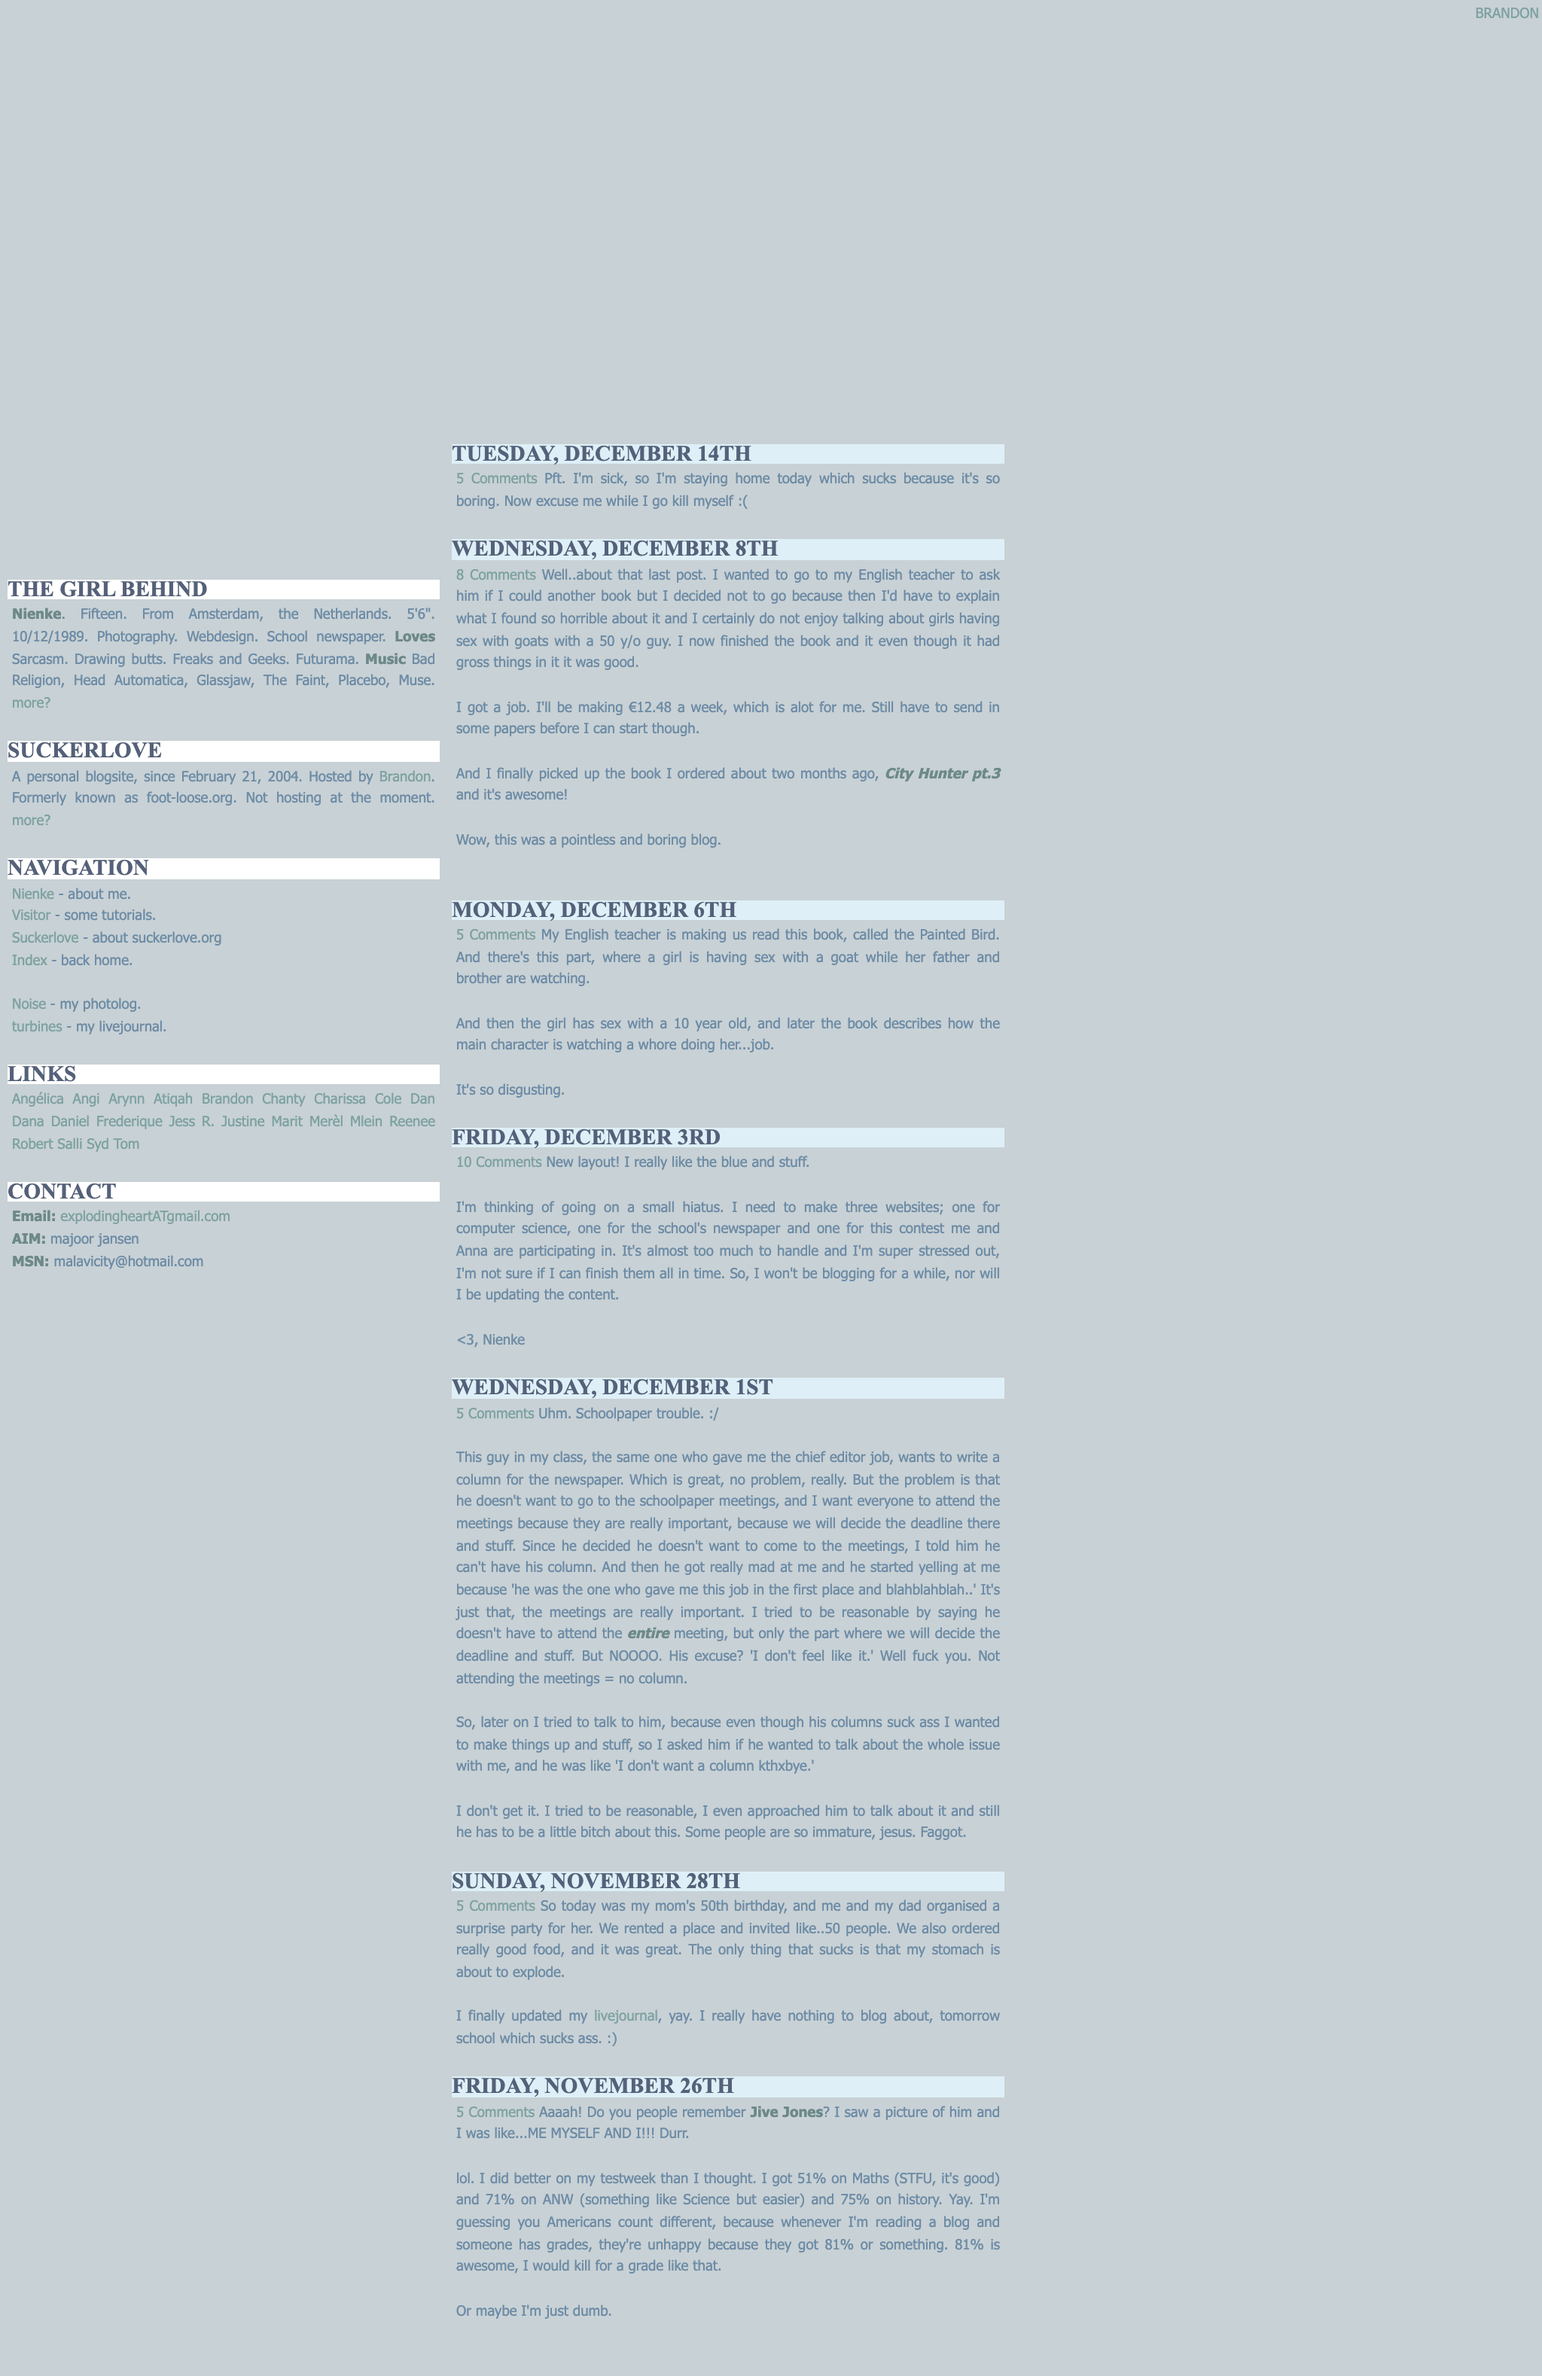
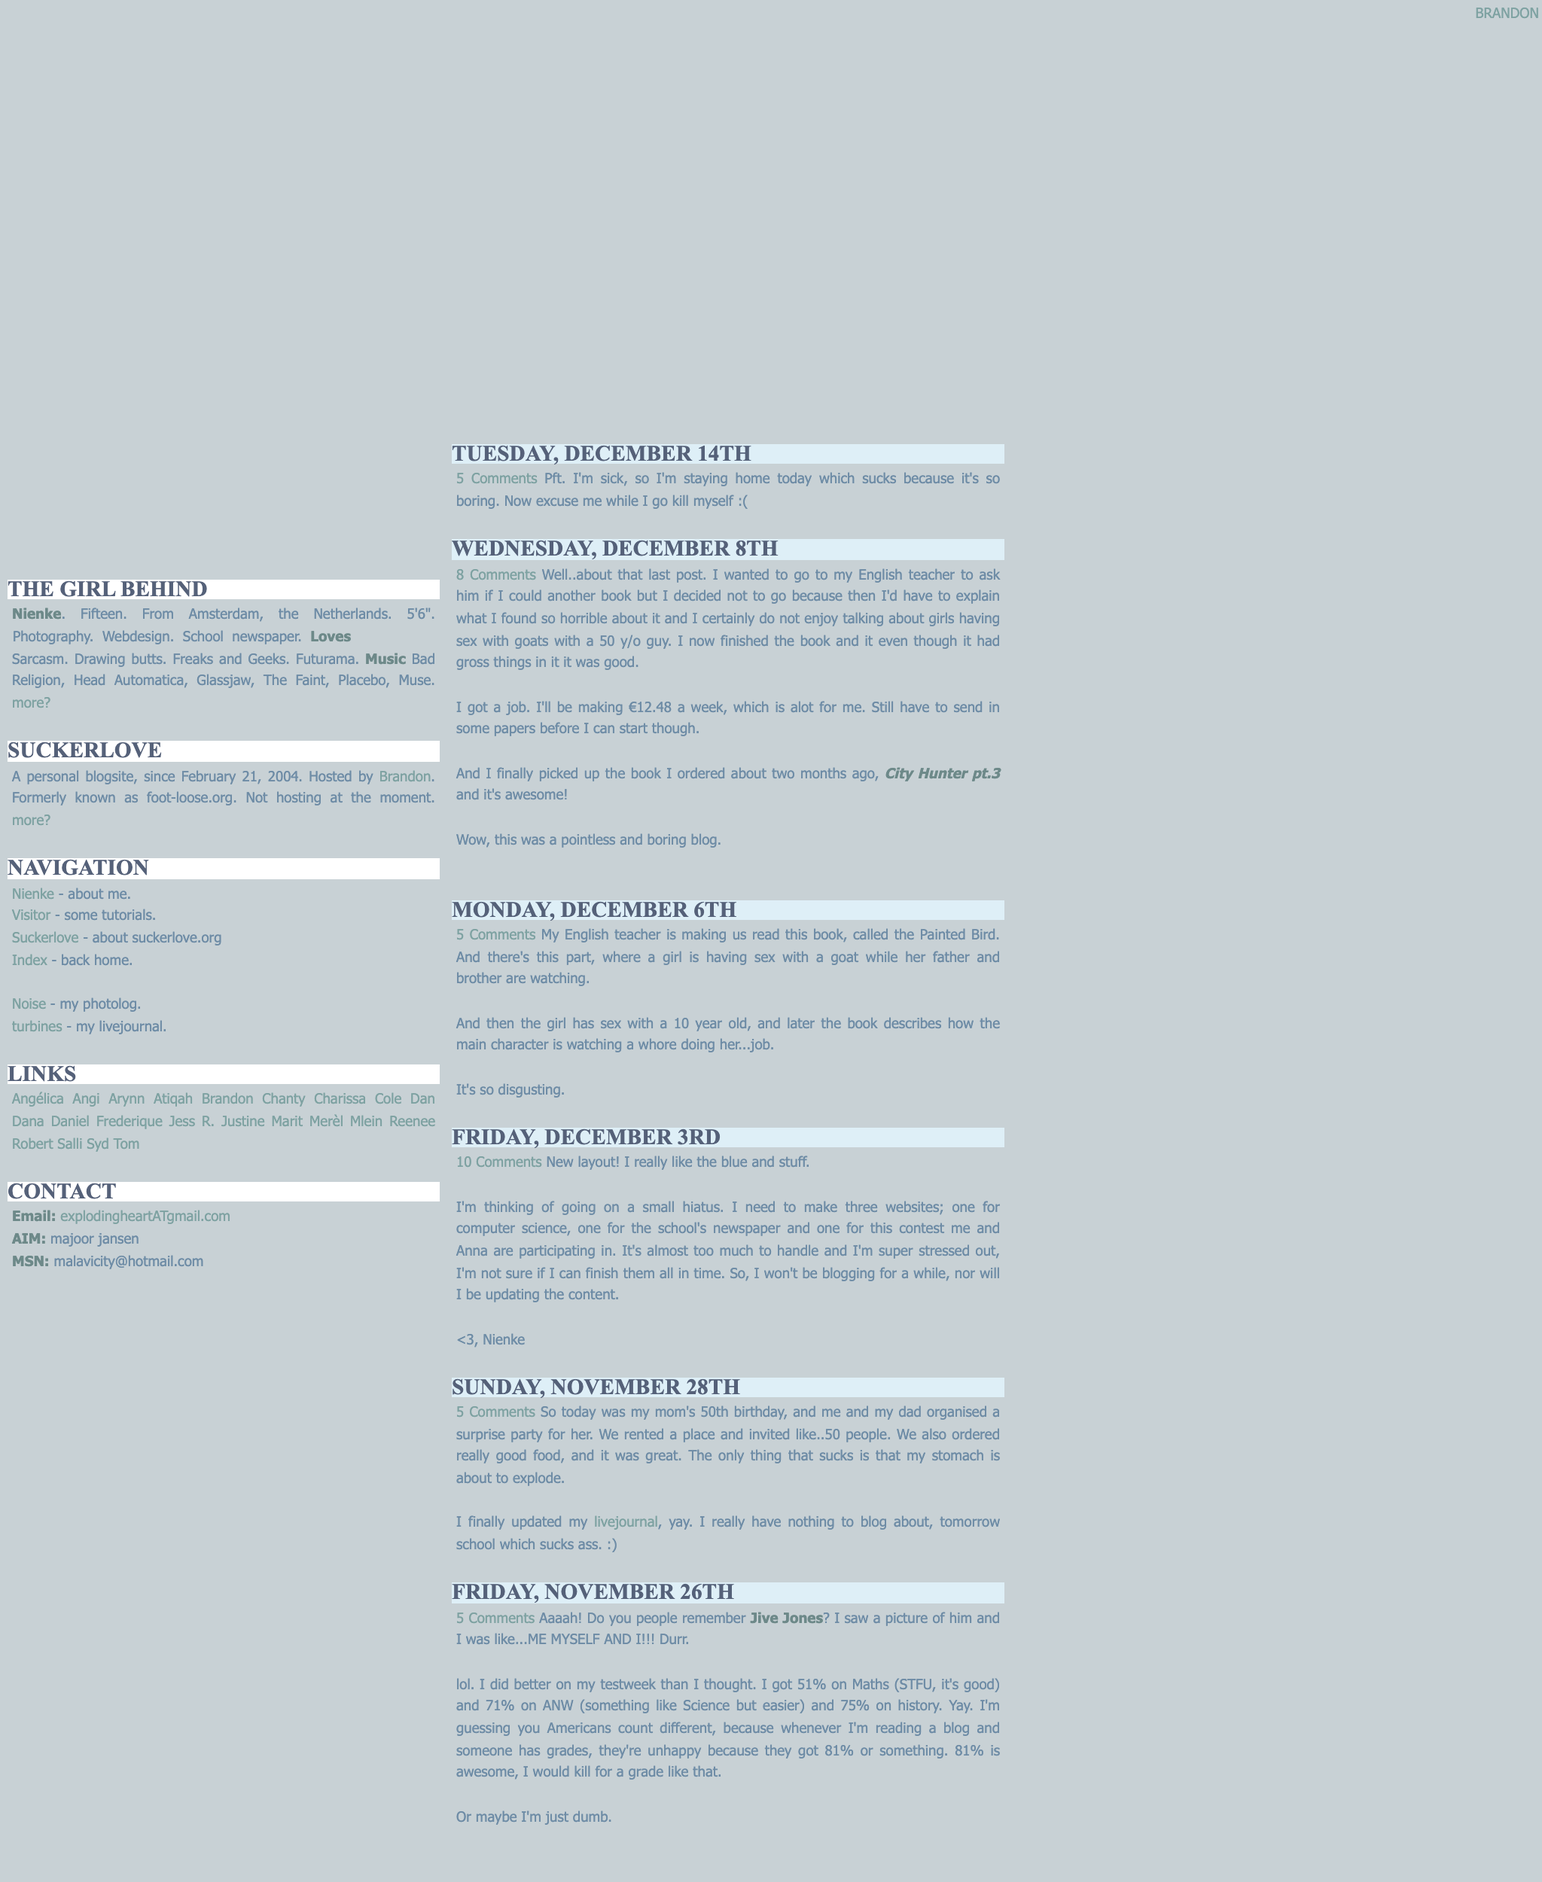
remove a slur, a rape joke and my birthdate from old suckerlove screenshots

Changed region(s): [[0.0, 0.1872, 0.6562, 0.9672]]

diff --git a/apps/nienke.dev/src/data/old-sites.ts b/apps/nienke.dev/src/data/old-sites.ts
@@ -305,7 +305,7 @@ Or me. Whatever.`,
           src: "/old-sites/suckerlove-20040825.png",
           alt: "A white page with teal Georgia blog posts and uppercase date headings, and a sidebar about Nienke, the site and friends",
           width: 1024,
-          height: 1318,
+          height: 1294,
           caption: "The Gladiator header and the little heading images weren't saved.",
         },
         note: "This layout featured Maximus from Gladiator. In the same month my computer crashed and I lost everything, and my online friend Daniël sent me Photoshop, Illustrator and Flash. I don't actually remember this but I guess I blogged about it.",
@@ -363,7 +363,7 @@ Or me. Whatever.`,
           src: "/old-sites/suckerlove-20041217.png",
           alt: "A grey-blue page with a sidebar on the left and blog posts with pale blue uppercase date bars",
           width: 1024,
-          height: 1578,
+          height: 1250,
           caption: "The header and background weren't saved.",
         },
       },
